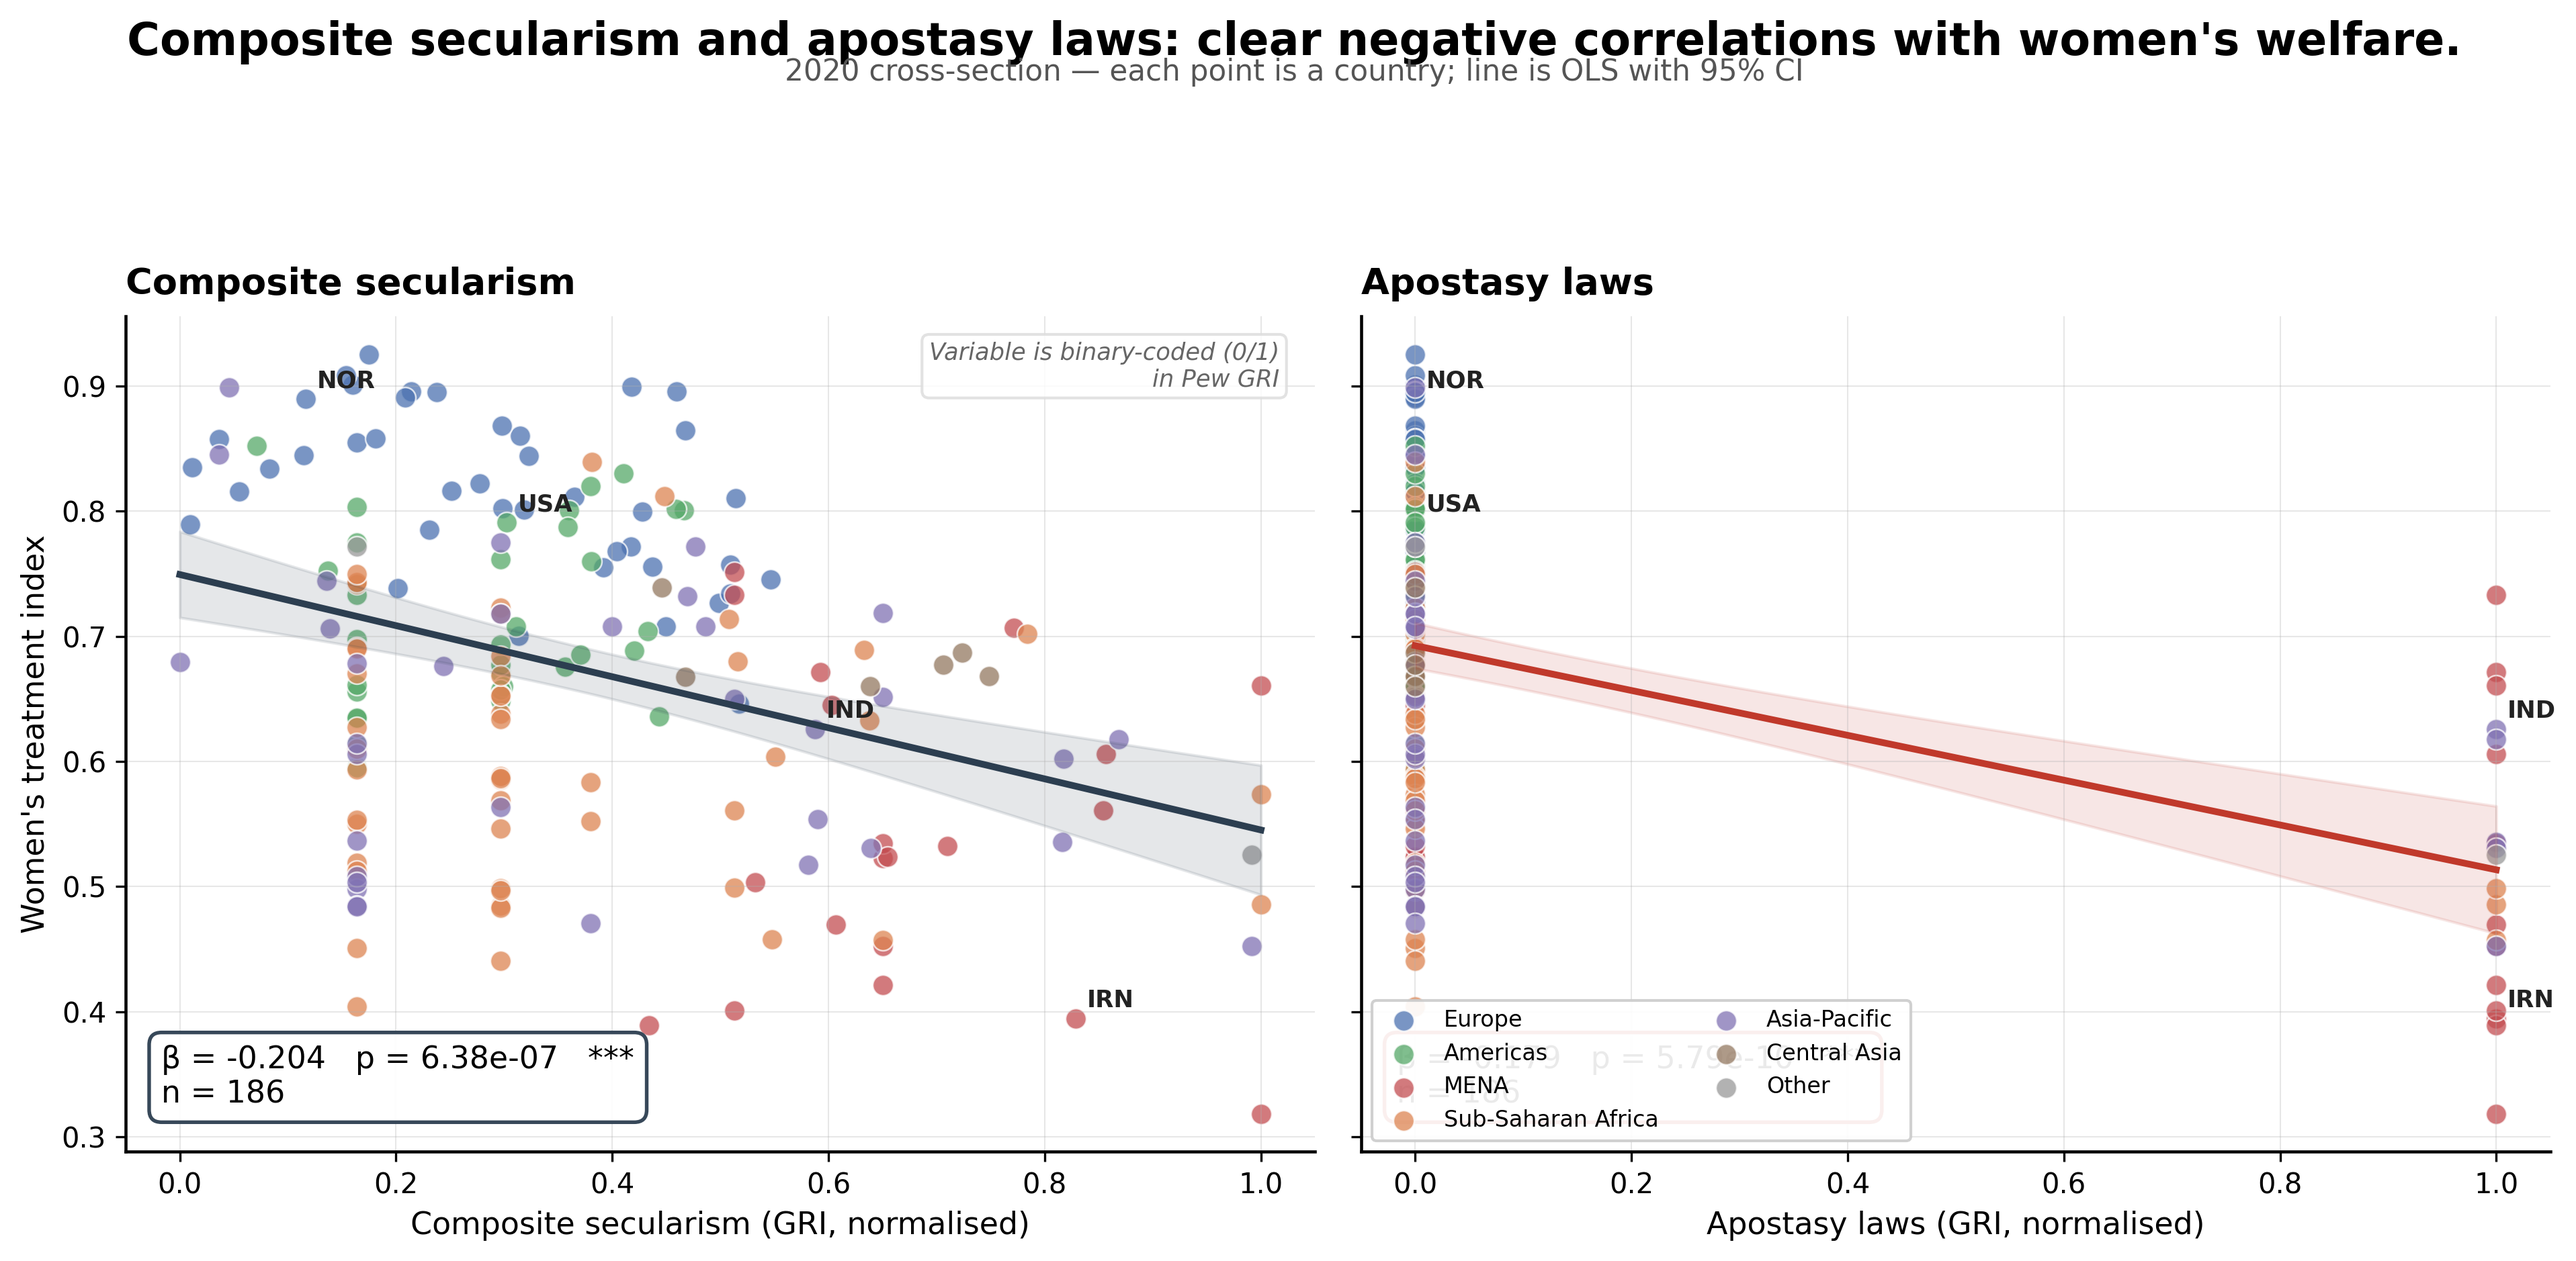
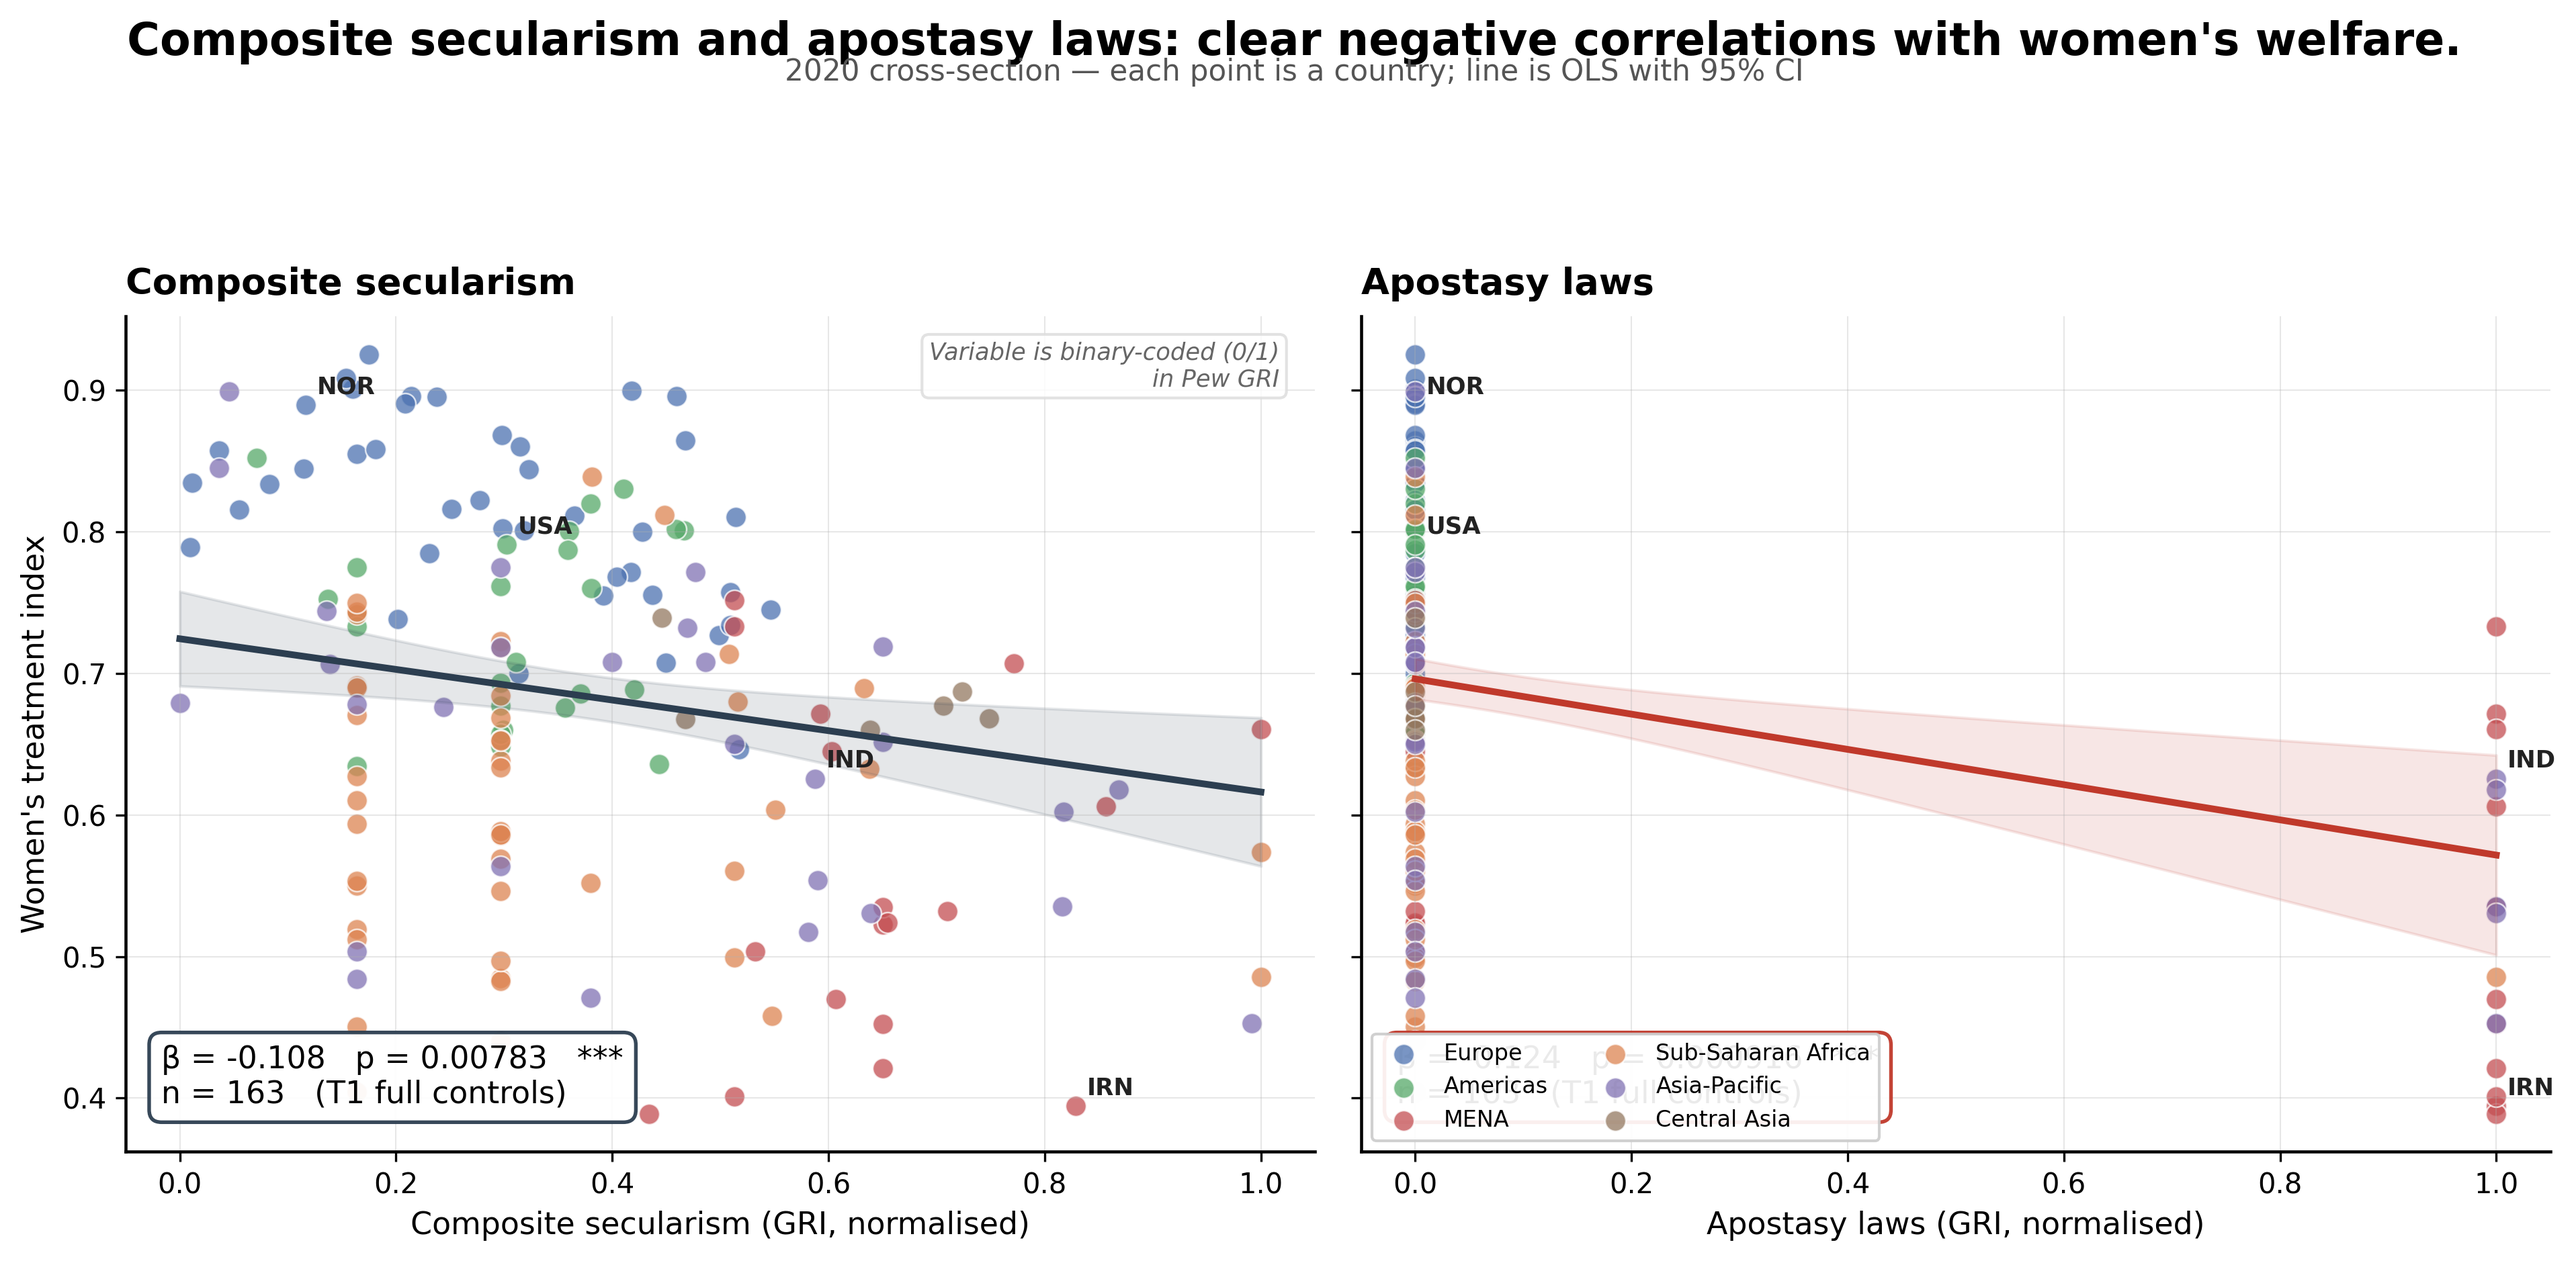
fix(scatter): plot_scatter annotation matches T1_with_gdp (full controls)
plot_scatter previously fit a bivariate OLS for its annotation, while
figure_guide.md described the \xce\xb2 as 'once GDP is controlled'. The panel
now fits the exact T1_with_gdp spec from analysis/run_analysis.py so the
annotation (\xce\xb2 = -0.108, p = 0.008, n = 163) matches the T1_2020_with_gdp
row in results/headline_table.csv.

Changes in analysis/run_plots.py:
  - Added module-level T1_CONTROLS_GDP and T1_GRI_PANEL_COLS lists mirroring
    analysis/run_analysis.py:83-94.
  - Extended main()'s df construction to merge data/outcome_composite.csv
    (for v2x_rule_norm) and data/controls_additional.csv (for the 4 added
    controls), matching load_and_merge() in run_analysis.py.
  - plot_scatter now fits [composite]+CONTROLS_GDP for the composite panel
    and GRI_PANEL_COLS+CONTROLS_GDP for the apostasy panel, both with HC3
    SEs; prediction line varies the focal holding other regressors at means.
  - Annotation label changed to '(T1 full controls)'.

diff --git a/analysis/run_plots.py b/analysis/run_plots.py
@@ -120,6 +120,18 @@ OUT_MUNDLAK = os.path.join(ROOT, "figures/12_mundlak_decomposition.png")
 OUT_LONGDIFF = os.path.join(ROOT, "figures/13_long_difference.png")
 WBL_OUTCOME_PATH = os.path.join(ROOT, "data/outcome_wbl.csv")
 
+# Mirror analysis/run_analysis.py:83-94 so plot_scatter can replicate the
+# T1_with_gdp fit that the headline table (and figure_guide.md caption) quotes.
+T1_CONTROLS_GDP = [
+    "v2x_rule_norm", "v2x_corr_norm", "education_norm",
+    "rurality_norm", "conflict_norm", "log_gdppc_norm",
+]
+T1_GRI_PANEL_COLS = [
+    "gri_state_religion_norm", "gri_gov_favour_norm",
+    "gri_religious_law_norm", "gri_religious_courts_norm",
+    "gri_blasphemy_norm", "gri_apostasy_norm",
+]
+
 # FOCAL_PRED and REGION_MAP imported from src.config above
 
 REGION_COLORS = {
@@ -175,7 +187,12 @@ def plot_scatter(df: pd.DataFrame):
     so the viewer can see where the signal lives.
     """
     OUTCOME = "wbl_treatment_index"
-    cols = ["iso3", FOCAL_PRED, FOCAL_PRED_2, OUTCOME]
+    # Columns = union of both panels' T1_with_gdp regressors so the common
+    # sample matches the headline-table rows (n=163 for 2020).
+    cols = list(dict.fromkeys(
+        ["iso3", FOCAL_PRED, FOCAL_PRED_2, OUTCOME,
+         *T1_GRI_PANEL_COLS, *T1_CONTROLS_GDP]
+    ))
     snap = df[df["year"] == 2020][cols].dropna()
     if snap.empty:
         print("  No 2020 data for scatter -- skipping.")
@@ -189,9 +206,14 @@ def plot_scatter(df: pd.DataFrame):
 
     fig, axes = plt.subplots(1, 2, figsize=(13, 6), sharey=True)
 
-    for ax, pred, panel_title in [
-        (axes[0], FOCAL_PRED,   "Composite secularism"),
-        (axes[1], FOCAL_PRED_2, "Apostasy laws"),
+    # Per-panel predictors mirror analysis/run_analysis.py T1_with_gdp:
+    #   composite focal  → [focal] + CONTROLS_GDP (standalone, composite_tier_specs)
+    #   apostasy focal   → GRI_PANEL_COLS + CONTROLS_GDP (joint, tier1_cross_sectional)
+    for ax, pred, panel_title, pred_cols in [
+        (axes[0], FOCAL_PRED,   "Composite secularism",
+         [FOCAL_PRED] + T1_CONTROLS_GDP),
+        (axes[1], FOCAL_PRED_2, "Apostasy laws",
+         T1_GRI_PANEL_COLS + T1_CONTROLS_GDP),
     ]:
         for region, color in REGION_COLORS.items():
             sub = snap[snap["region"] == region]
@@ -200,10 +222,16 @@ def plot_scatter(df: pd.DataFrame):
             ax.scatter(sub[pred], sub[OUTCOME], c=color, label=region,
                        s=55, alpha=0.75, edgecolors="white", linewidth=0.6)
 
-        X  = sm.add_constant(snap[pred])
-        ols = sm.OLS(snap[OUTCOME], X).fit()
+        # Full-controls OLS with HC3 SEs — annotation matches T1_2020_with_gdp row.
+        X   = sm.add_constant(snap[pred_cols])
+        ols = sm.OLS(snap[OUTCOME], X).fit(cov_type="HC3")
+        # Prediction line: vary pred, hold every other regressor at its mean.
         x_grid = np.linspace(snap[pred].min(), snap[pred].max(), 100)
-        X_grid = sm.add_constant(x_grid)
+        means  = snap[pred_cols].mean()
+        X_grid_df = pd.DataFrame(np.tile(means.values, (len(x_grid), 1)),
+                                 columns=pred_cols)
+        X_grid_df[pred] = x_grid
+        X_grid = sm.add_constant(X_grid_df, has_constant="add")
         y_hat  = ols.predict(X_grid)
         ci     = ols.get_prediction(X_grid).conf_int(alpha=0.05)
 
@@ -215,7 +243,7 @@ def plot_scatter(df: pd.DataFrame):
         pval = ols.pvalues[pred]
         stars = _sig_stars(pval) or "n.s."
         ax.annotate(
-            f"β = {beta:+.3f}   p = {pval:.3g}   {stars}\nn = {len(snap)}",
+            f"β = {beta:+.3f}   p = {pval:.3g}   {stars}\nn = {int(ols.nobs)}   (T1 full controls)",
             xy=(0.03, 0.05), xycoords="axes fraction",
             fontsize=11, ha="left", va="bottom",
             bbox=dict(boxstyle="round,pad=0.4", facecolor="white",
@@ -1534,6 +1562,19 @@ def main():
         comp.drop(columns=["country"], errors="ignore"),
         on=["iso3", "year"], how="left", suffixes=("", "_comp"),
     )
+    # Mirror analysis/run_analysis.py:load_and_merge so plot_scatter sees the
+    # same T1_with_gdp regressors. v2x_rule_norm lives in the old outcome
+    # composite file; the 4 additional controls live in controls_additional.
+    old_path = os.path.join(ROOT, "data/outcome_composite.csv")
+    if os.path.exists(old_path):
+        aux_needed = [c for c in ["v2x_rule_norm"] if c not in df.columns]
+        if aux_needed:
+            aux = pd.read_csv(old_path)[["iso3", "year"] + aux_needed]
+            df = df.merge(aux, on=["iso3", "year"], how="left")
+    ctrl_path = os.path.join(ROOT, "data/controls_additional.csv")
+    if os.path.exists(ctrl_path):
+        ctrl = pd.read_csv(ctrl_path)
+        df = df.merge(ctrl, on=["iso3", "year"], how="left")
     # Item 2 (2026-04-15): build composite in-memory so FOCAL_PRED
     # (composite_secularism_norm) is available to plot_scatter and
     # other plots that reference FOCAL_PRED as a column in df.
